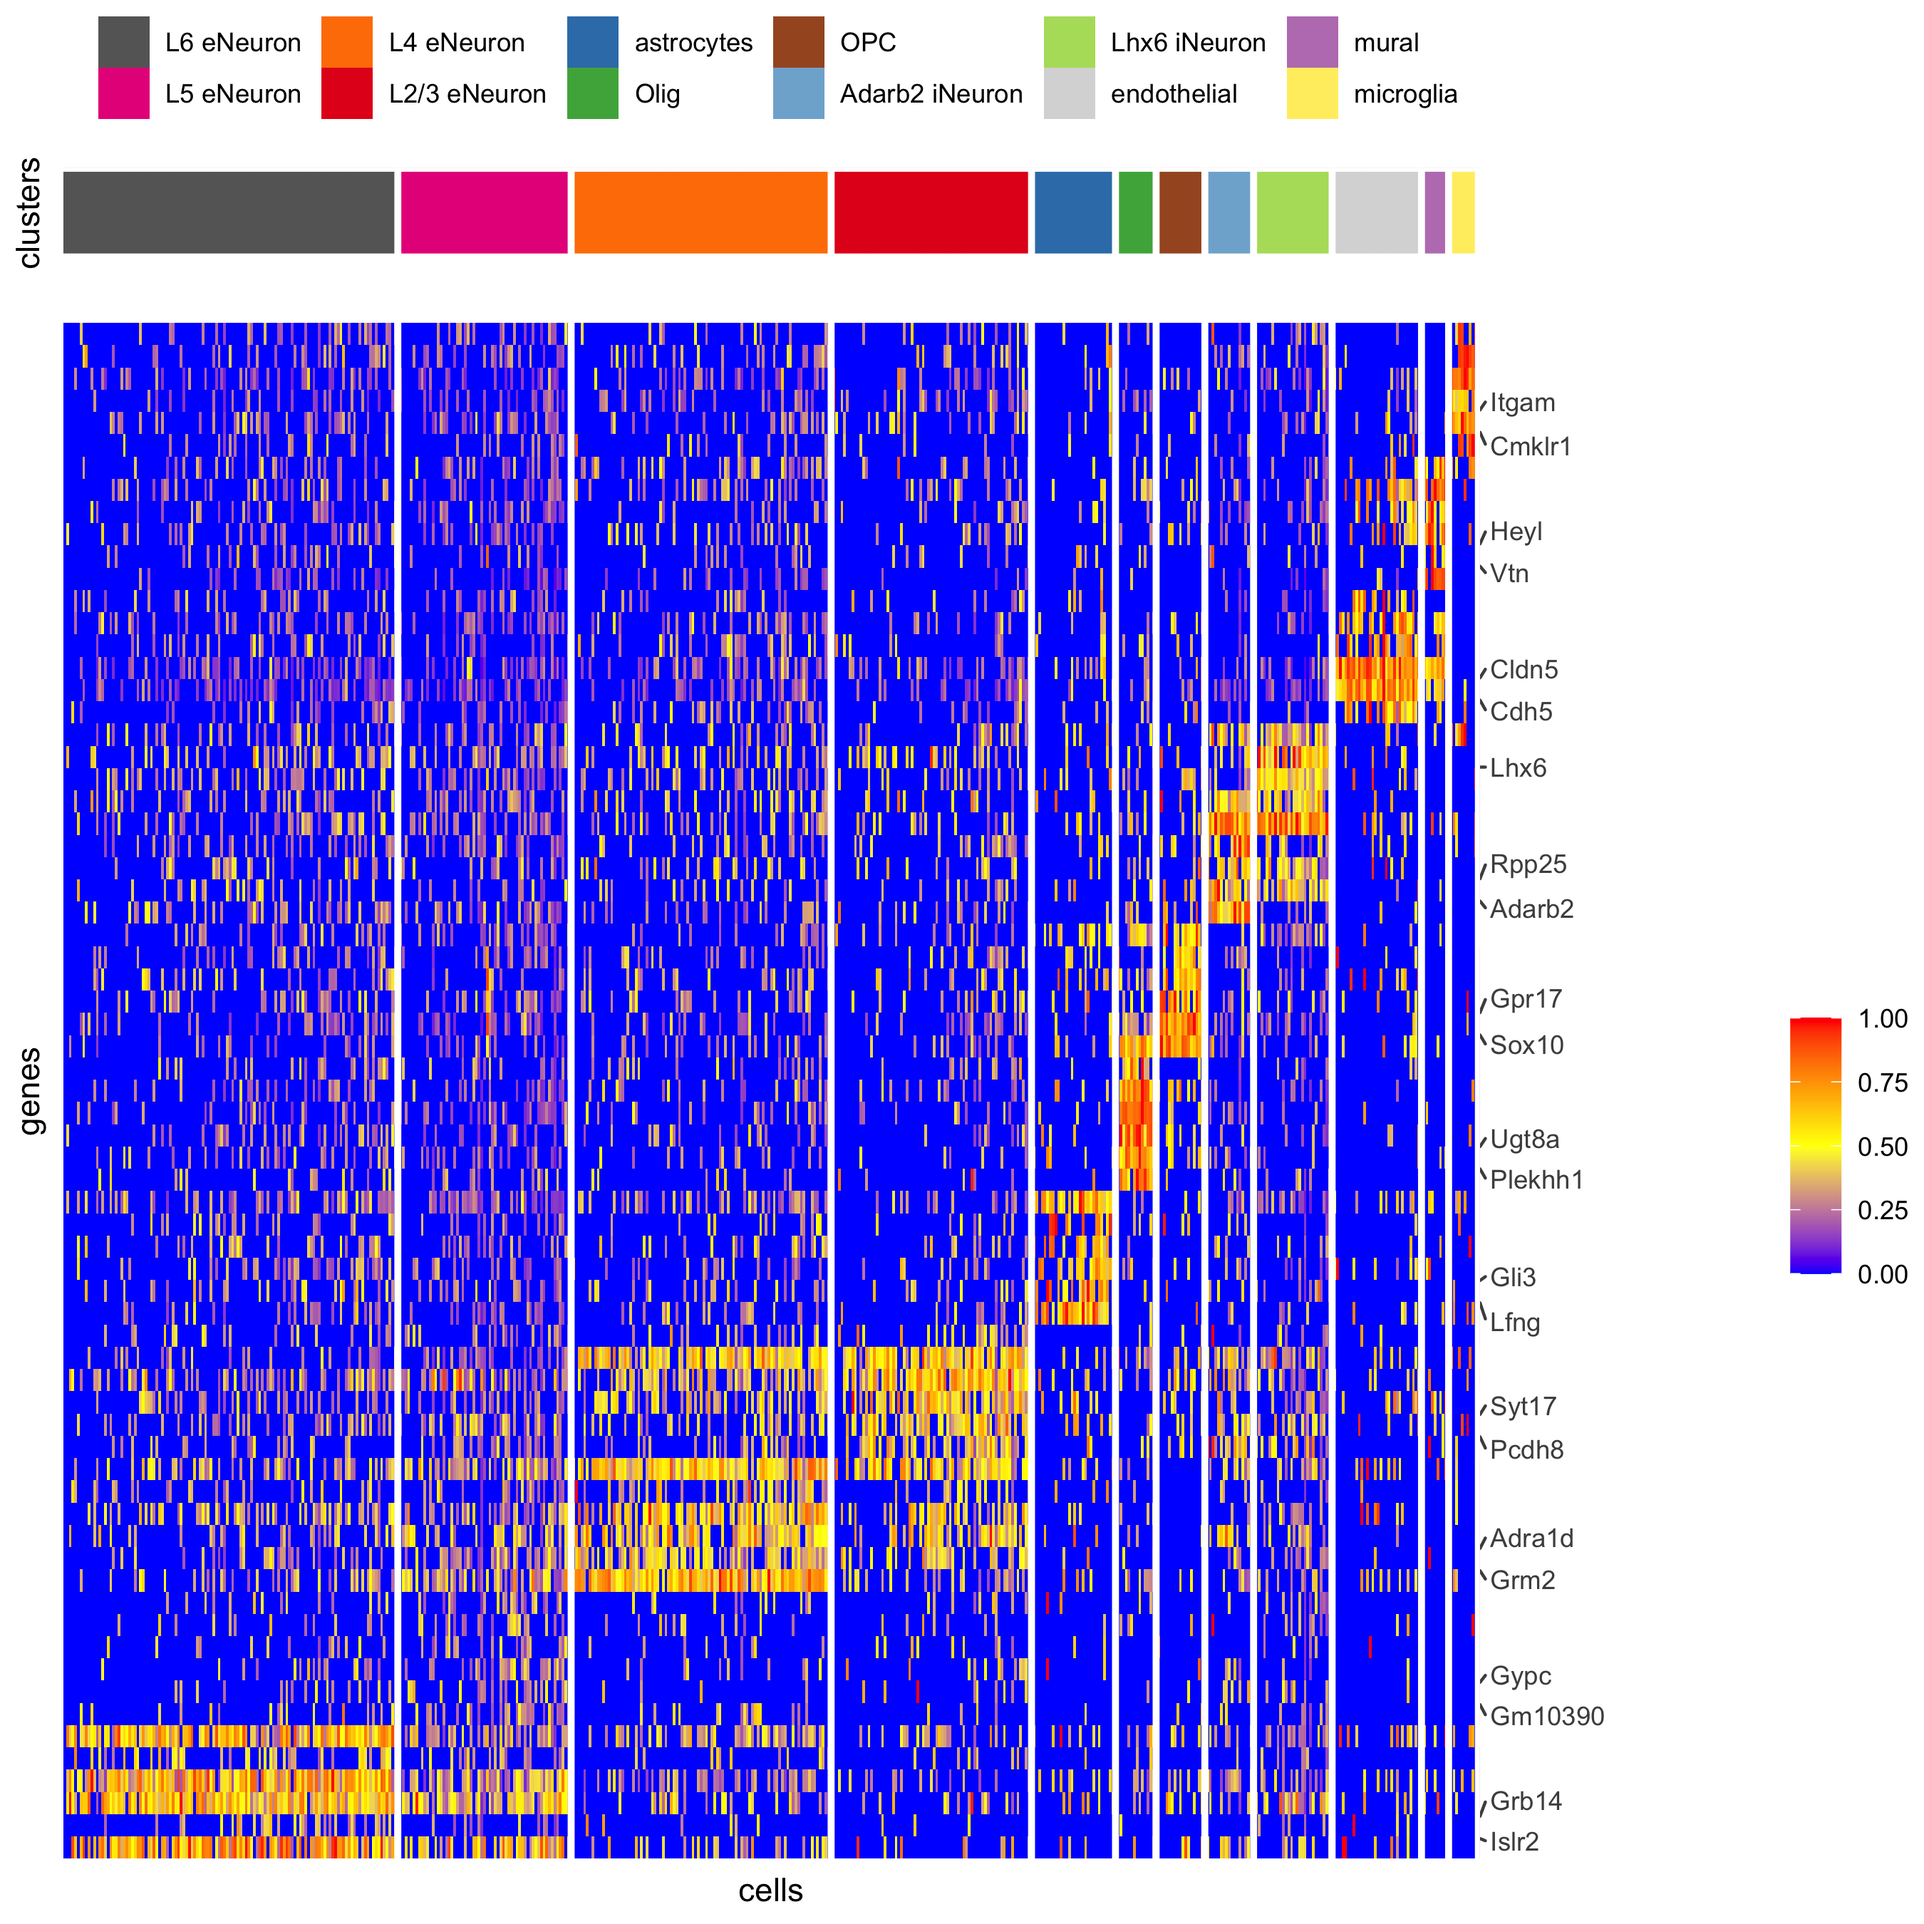
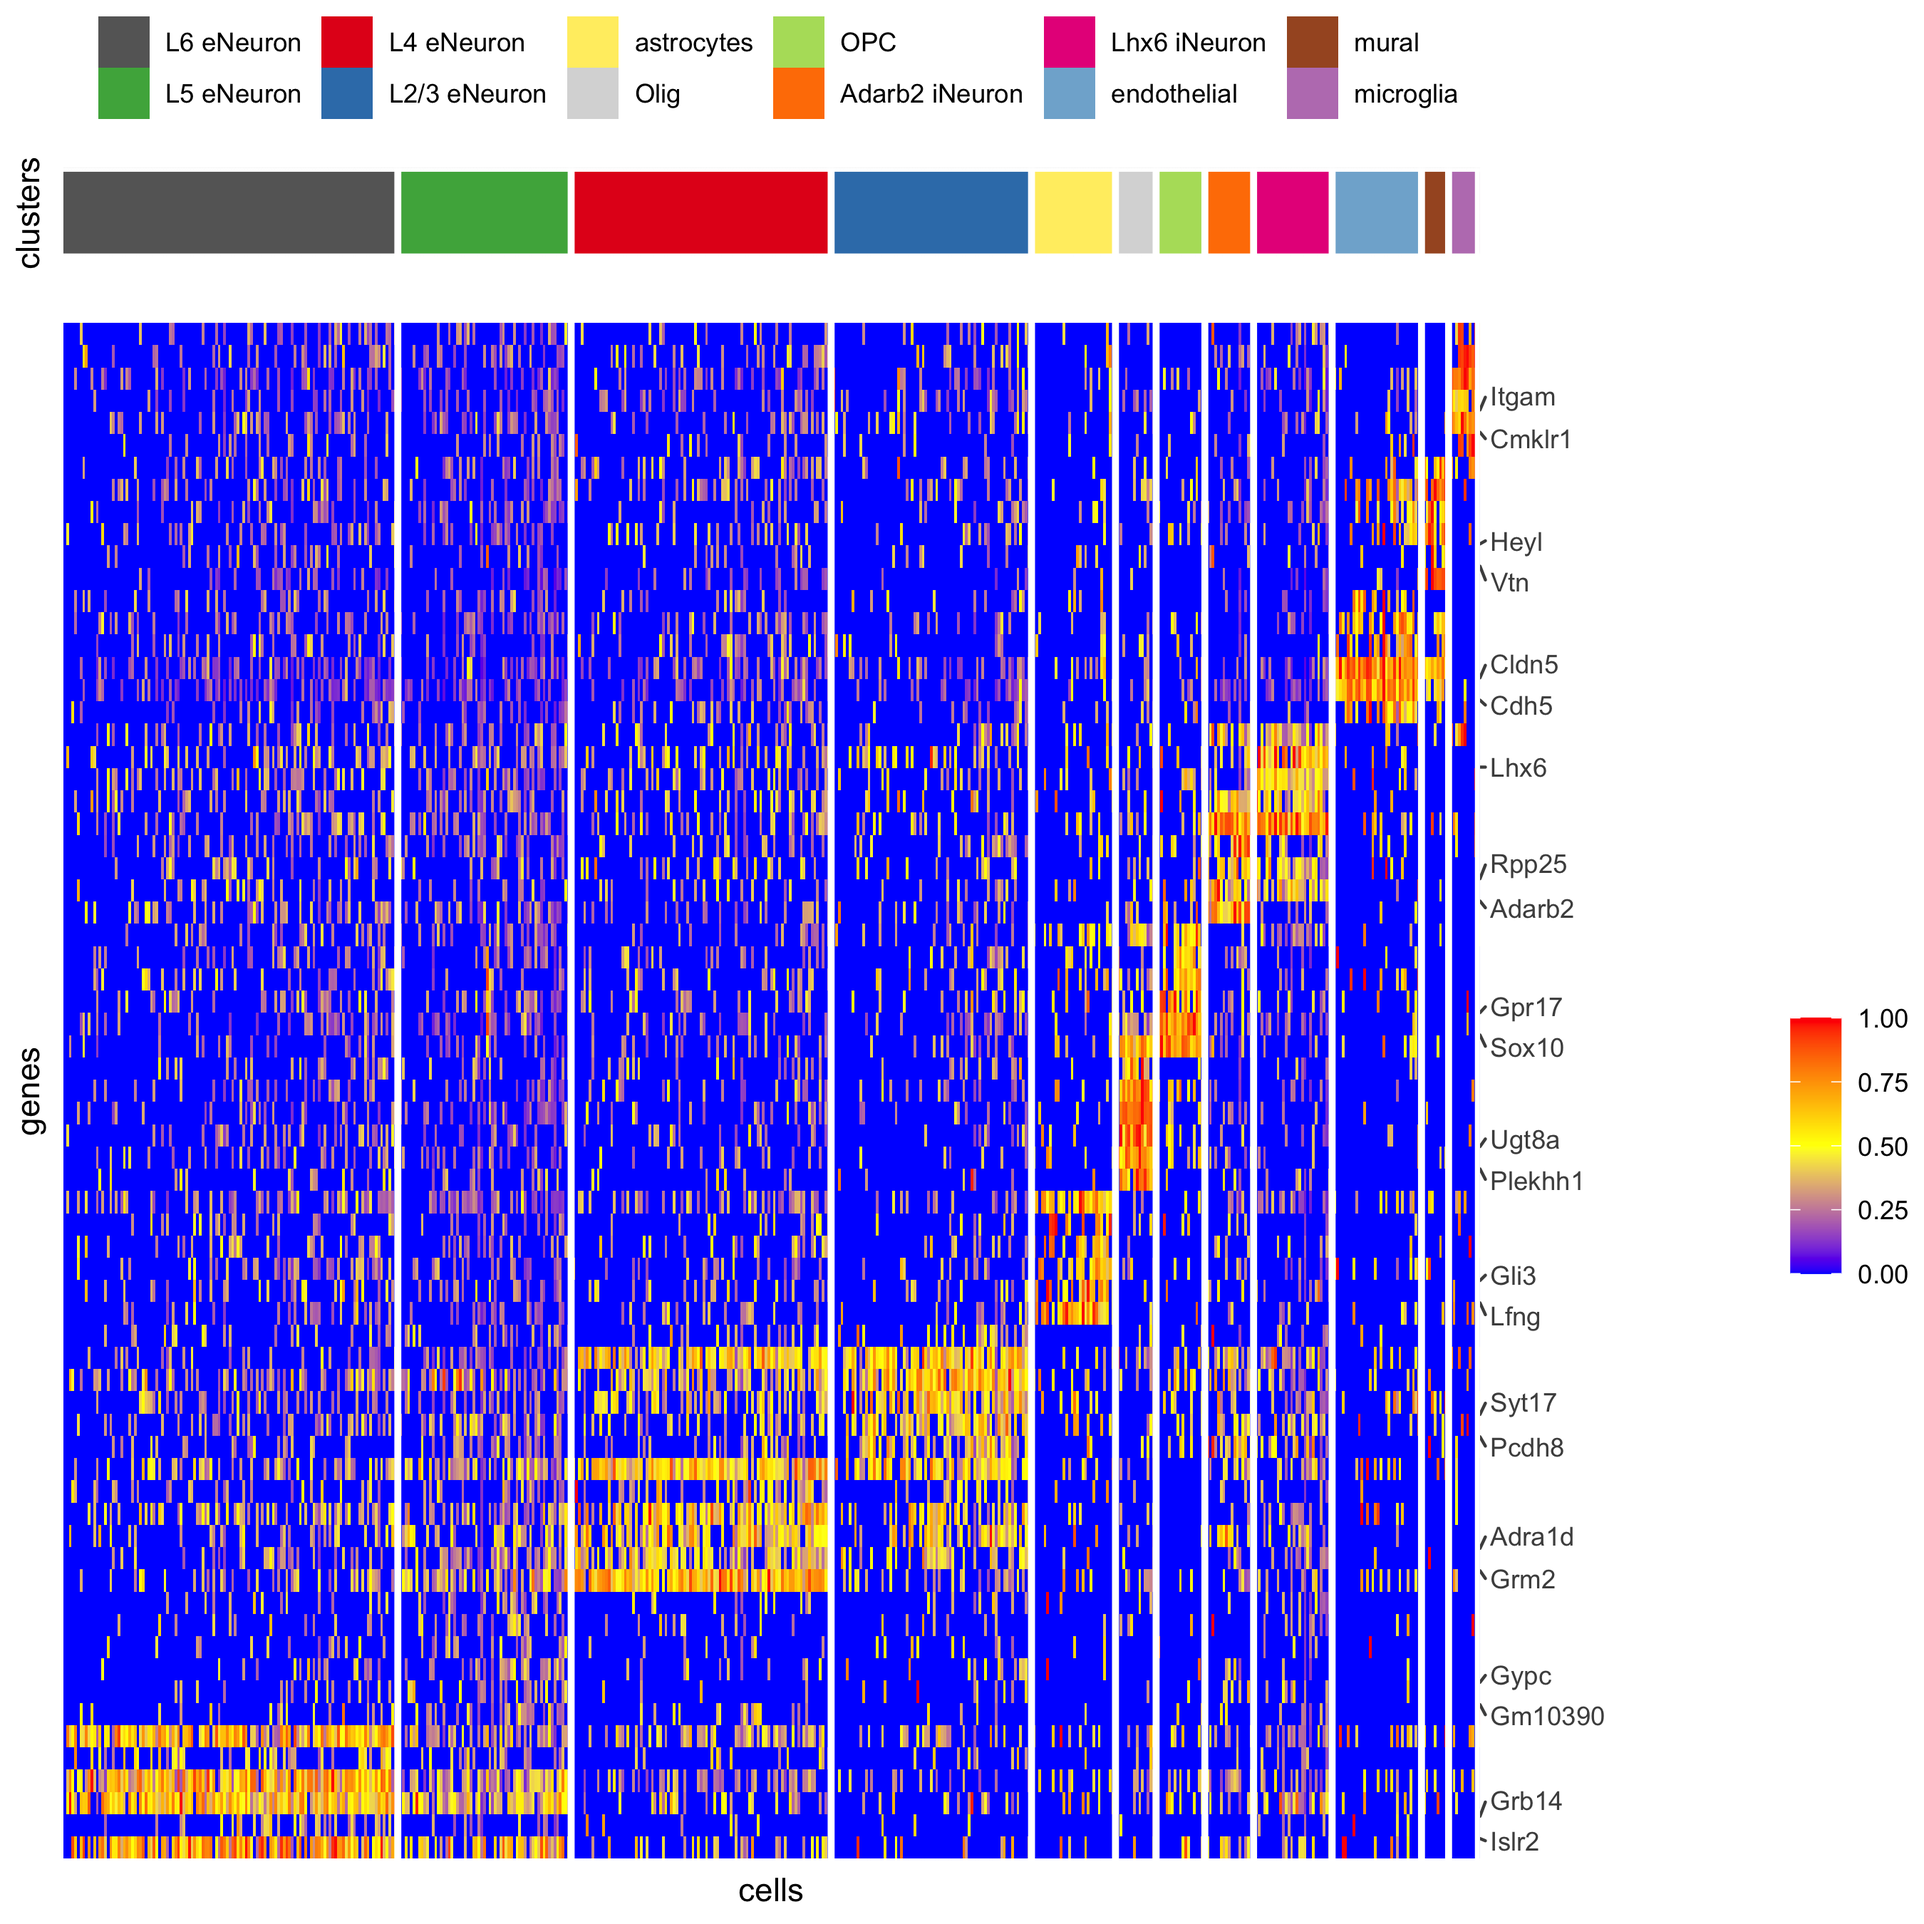
update heatmap seqfish

diff --git a/docs/articles/mouse_seqFISH_cortex_200914.html b/docs/articles/mouse_seqFISH_cortex_200914.html
@@ -425,8 +425,11 @@
 <span class="va">cell_type_order</span> <span class="op">=</span> <span class="fu"><a href="https://rdrr.io/r/base/c.html">c</a></span><span class="op">(</span><span class="st">'L6 eNeuron'</span>, <span class="st">'L5 eNeuron'</span>, <span class="st">'L4 eNeuron'</span>, <span class="st">'L2/3 eNeuron'</span>,
                     <span class="st">'astrocytes'</span>, <span class="st">'Olig'</span>, <span class="st">'OPC'</span>,<span class="st">'Adarb2 iNeuron'</span>, <span class="st">'Lhx6 iNeuron'</span>,
                     <span class="st">'endothelial'</span>, <span class="st">'mural'</span>, <span class="st">'microglia'</span><span class="op">)</span>
-<span class="va">cell_type_colors</span> <span class="op">=</span> <span class="fu">Giotto</span><span class="fu">:::</span><span class="fu"><a href="../reference/getDistinctColors.html">getDistinctColors</a></span><span class="op">(</span><span class="fu"><a href="https://rdrr.io/r/base/length.html">length</a></span><span class="op">(</span><span class="va">cell_type_order</span><span class="op">)</span><span class="op">)</span> 
-<span class="fu"><a href="https://rdrr.io/r/base/names.html">names</a></span><span class="op">(</span><span class="va">cell_type_colors</span><span class="op">)</span> <span class="op">=</span> <span class="va">cell_type_order</span>
+
+<span class="va">cell_type_colors</span> <span class="op">=</span> <span class="va">subleiden_colors</span>
+<span class="fu"><a href="https://rdrr.io/r/base/names.html">names</a></span><span class="op">(</span><span class="va">cell_type_colors</span><span class="op">)</span> <span class="op">=</span> <span class="va">clusters_cell_types_cortex</span><span class="op">[</span><span class="fu"><a href="https://rdrr.io/r/base/names.html">names</a></span><span class="op">(</span><span class="va">subleiden_colors</span><span class="op">)</span><span class="op">]</span>
+<span class="va">cell_type_colors</span> <span class="op">=</span> <span class="va">cell_type_colors</span><span class="op">[</span><span class="va">cell_type_order</span><span class="op">]</span>
+
 
 <span class="co">## violinplot</span>
 <span class="fu"><a href="../reference/violinPlot.html">violinPlot</a></span><span class="op">(</span>gobject <span class="op">=</span> <span class="va">SS_seqfish</span>, genes <span class="op">=</span> <span class="fu"><a href="https://rdrr.io/r/base/unique.html">unique</a></span><span class="op">(</span><span class="va">topgenes_gini</span><span class="op">$</span><span class="va">genes</span><span class="op">)</span>,
